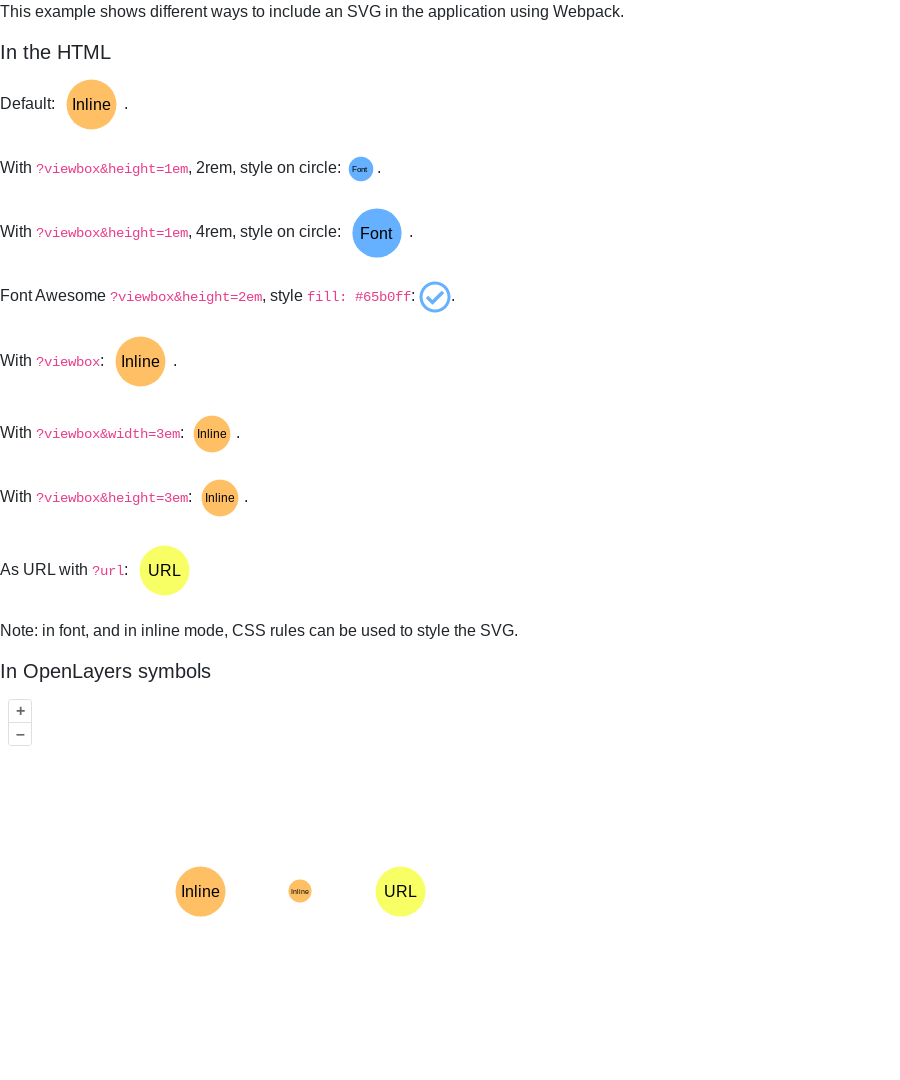
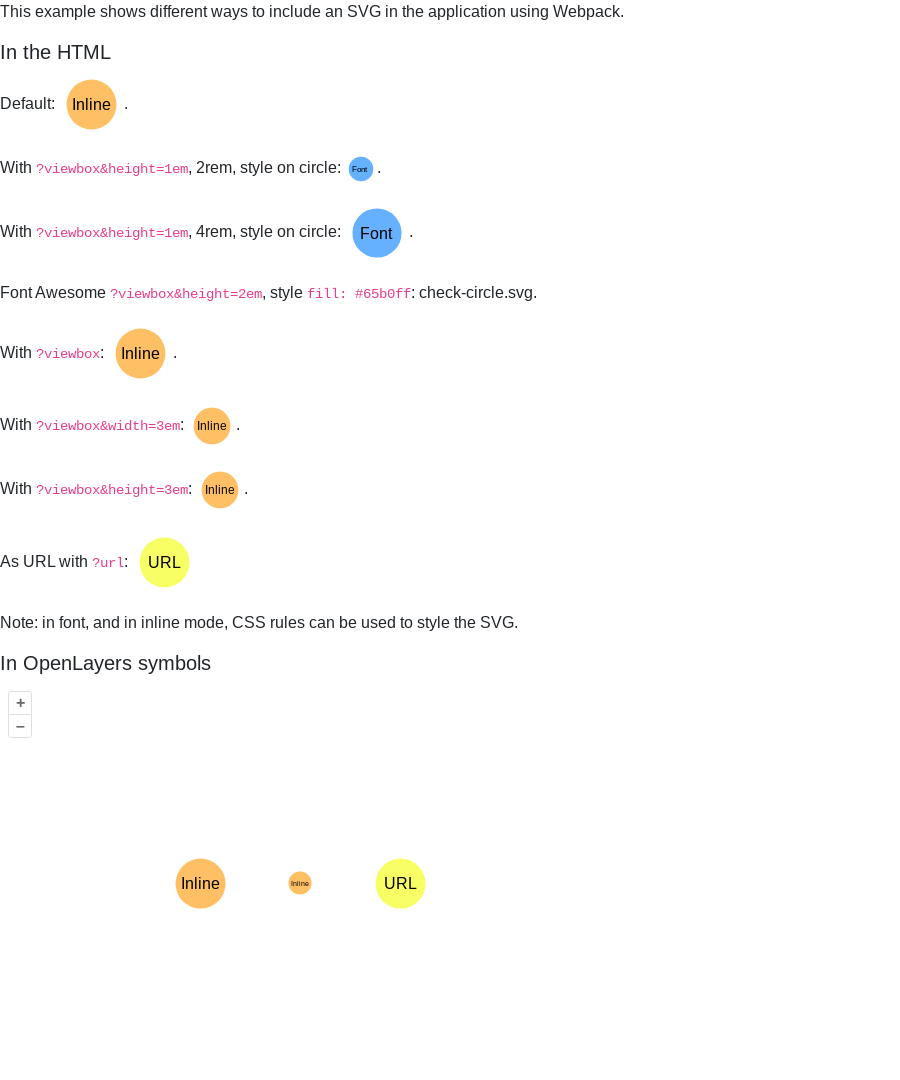
Fix svgo 3.3.3 entity count limit breaking FontAwesome SVG font builds (#10062)
* Initial plan

* Fix CI: exclude node_modules SVGs from svgo-loader to avoid entity count limit

* Update the ref images

---------

diff --git a/buildtools/webpack.prod.js b/buildtools/webpack.prod.js
@@ -35,8 +35,23 @@ const resourcesRule = {
   ],
 };
 
+const svgNodeModulesRule = {
+  test: /\.svg$/,
+  include: /node_modules/,
+  use: [
+    {
+      loader: 'file-loader',
+      options: {
+        esModule: false,
+        name: '[name].[hash:6].[ext]',
+      },
+    },
+  ],
+};
+
 const svgRule = {
   test: /\.svg$/,
+  exclude: /node_modules/,
   oneOf: [
     {
       resourceQuery: /url/,
@@ -87,7 +102,7 @@ module.exports = function () {
     },
     plugins: [new webpack.optimize.ModuleConcatenationPlugin()],
     module: {
-      rules: [resourcesRule, svgRule],
+      rules: [resourcesRule, svgNodeModulesRule, svgRule],
     },
     optimization: {
       minimizer: [

diff --git a/buildtools/webpack.dev.js b/buildtools/webpack.dev.js
@@ -36,8 +36,23 @@ const resourcesRule = {
   ],
 };
 
+const svgNodeModulesRule = {
+  test: /\.svg$/,
+  include: /node_modules/,
+  use: [
+    {
+      loader: 'file-loader',
+      options: {
+        esModule: false,
+        name: '[name].[ext]',
+      },
+    },
+  ],
+};
+
 const svgRule = {
   test: /\.svg$/,
+  exclude: /node_modules/,
   oneOf: [
     {
       resourceQuery: /url/,
@@ -91,7 +106,7 @@ module.exports = function () {
       filename: '[name].js',
     },
     module: {
-      rules: [resourcesRule, svgRule],
+      rules: [resourcesRule, svgNodeModulesRule, svgRule],
     },
   };
 };
